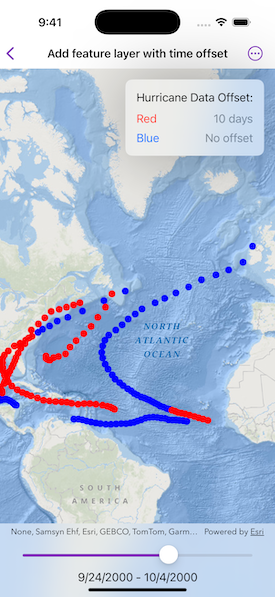
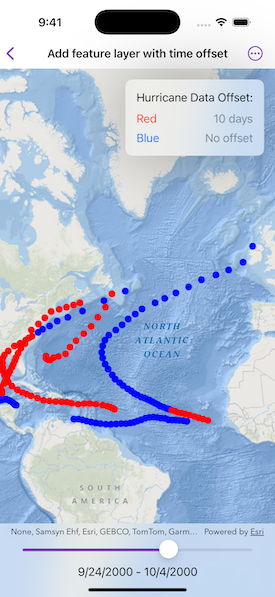
Fix slider spacing

Changed region(s): [[0.0873, 0.9045, 0.7273, 0.995]]

diff --git a/Shared/Samples/Add feature layer with time offset/AddFeatureLayerWithTimeOffsetView.swift b/Shared/Samples/Add feature layer with time offset/AddFeatureLayerWithTimeOffsetView.swift
@@ -89,12 +89,19 @@ struct AddFeatureLayerWithTimeOffsetView: View {
                 ToolbarItem(placement: .bottomBar) {
                     VStack {
                         Slider(value: $sliderValue, in: 0...sliderMaxValue, step: 1)
-                            .padding(.top)
                             .padding(.horizontal)
                             .onChange(of: sliderValue) {
                                 // Calculates a new time extent when the slider value changes.
-                                guard let newStartDate = Calendar.current.date(byAdding: .day, value: Int(sliderValue), to: .august4th2000),
-                                      let newEndDate = Calendar.current.date(byAdding: .day, value: 10, to: newStartDate) else {
+                                guard let newStartDate = Calendar.current.date(
+                                        byAdding: .day,
+                                        value: Int(sliderValue),
+                                        to: .august4th2000
+                                      ),
+                                      let newEndDate = Calendar.current.date(
+                                        byAdding: .day,
+                                        value: 10,
+                                        to: newStartDate
+                                      ) else {
                                     return
                                 }
                                 timeExtent = TimeExtent(startDate: newStartDate, endDate: newEndDate)
